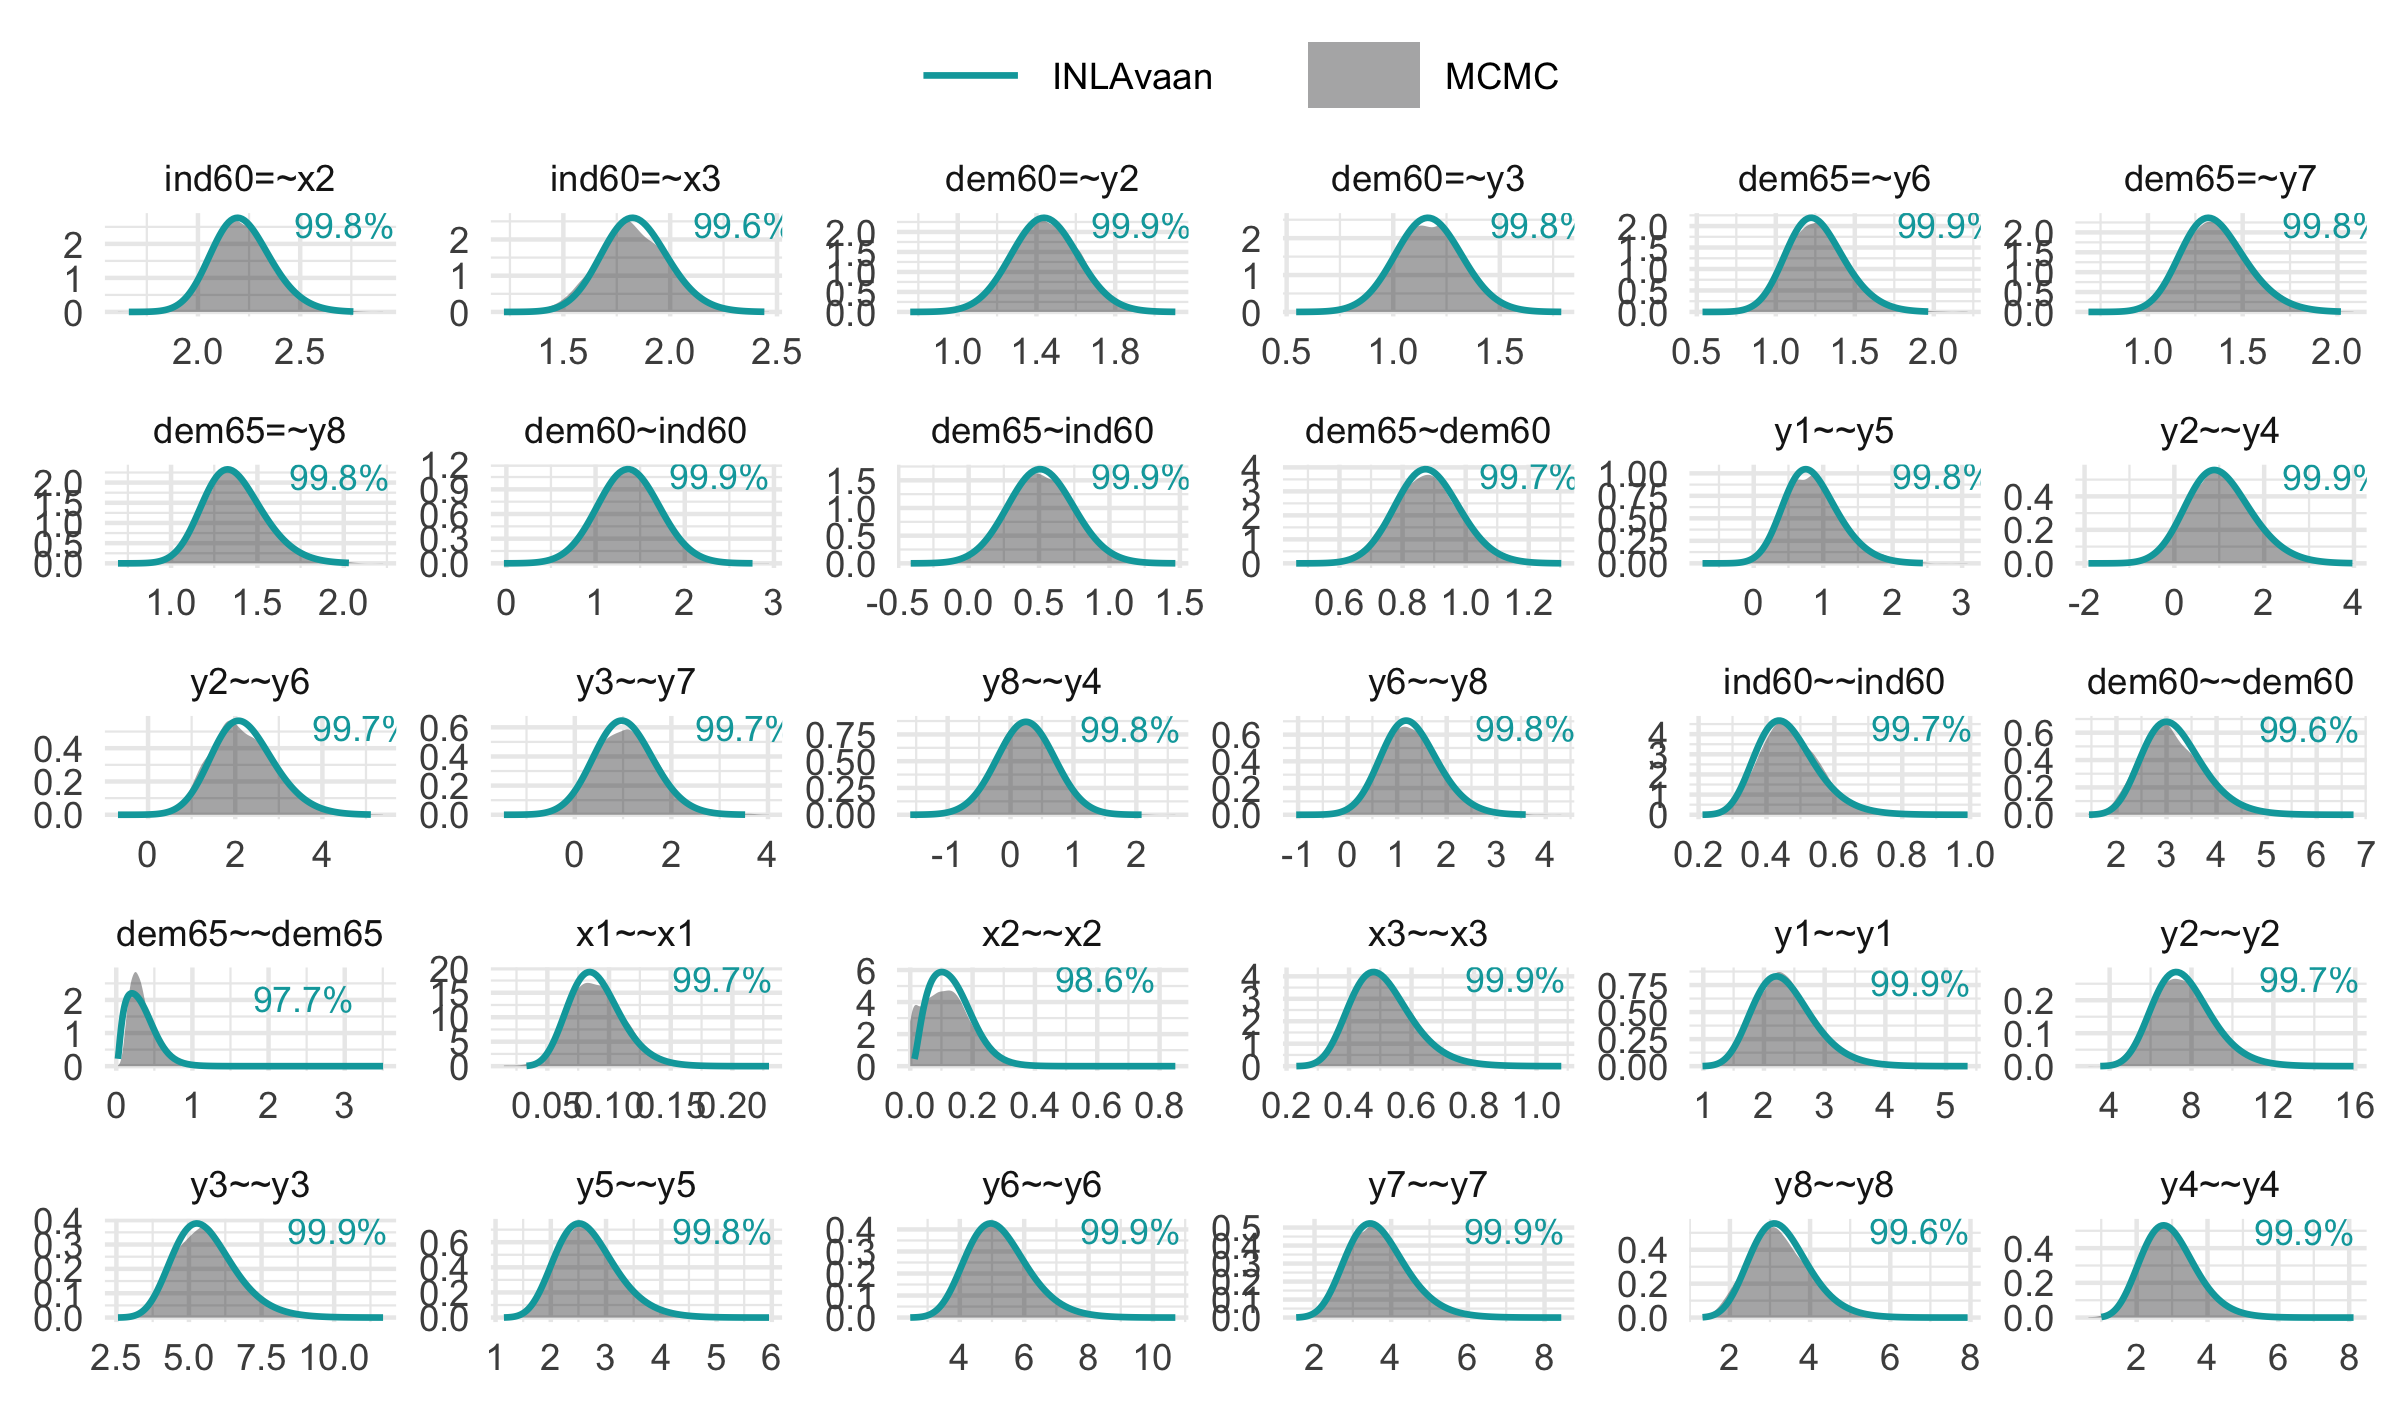
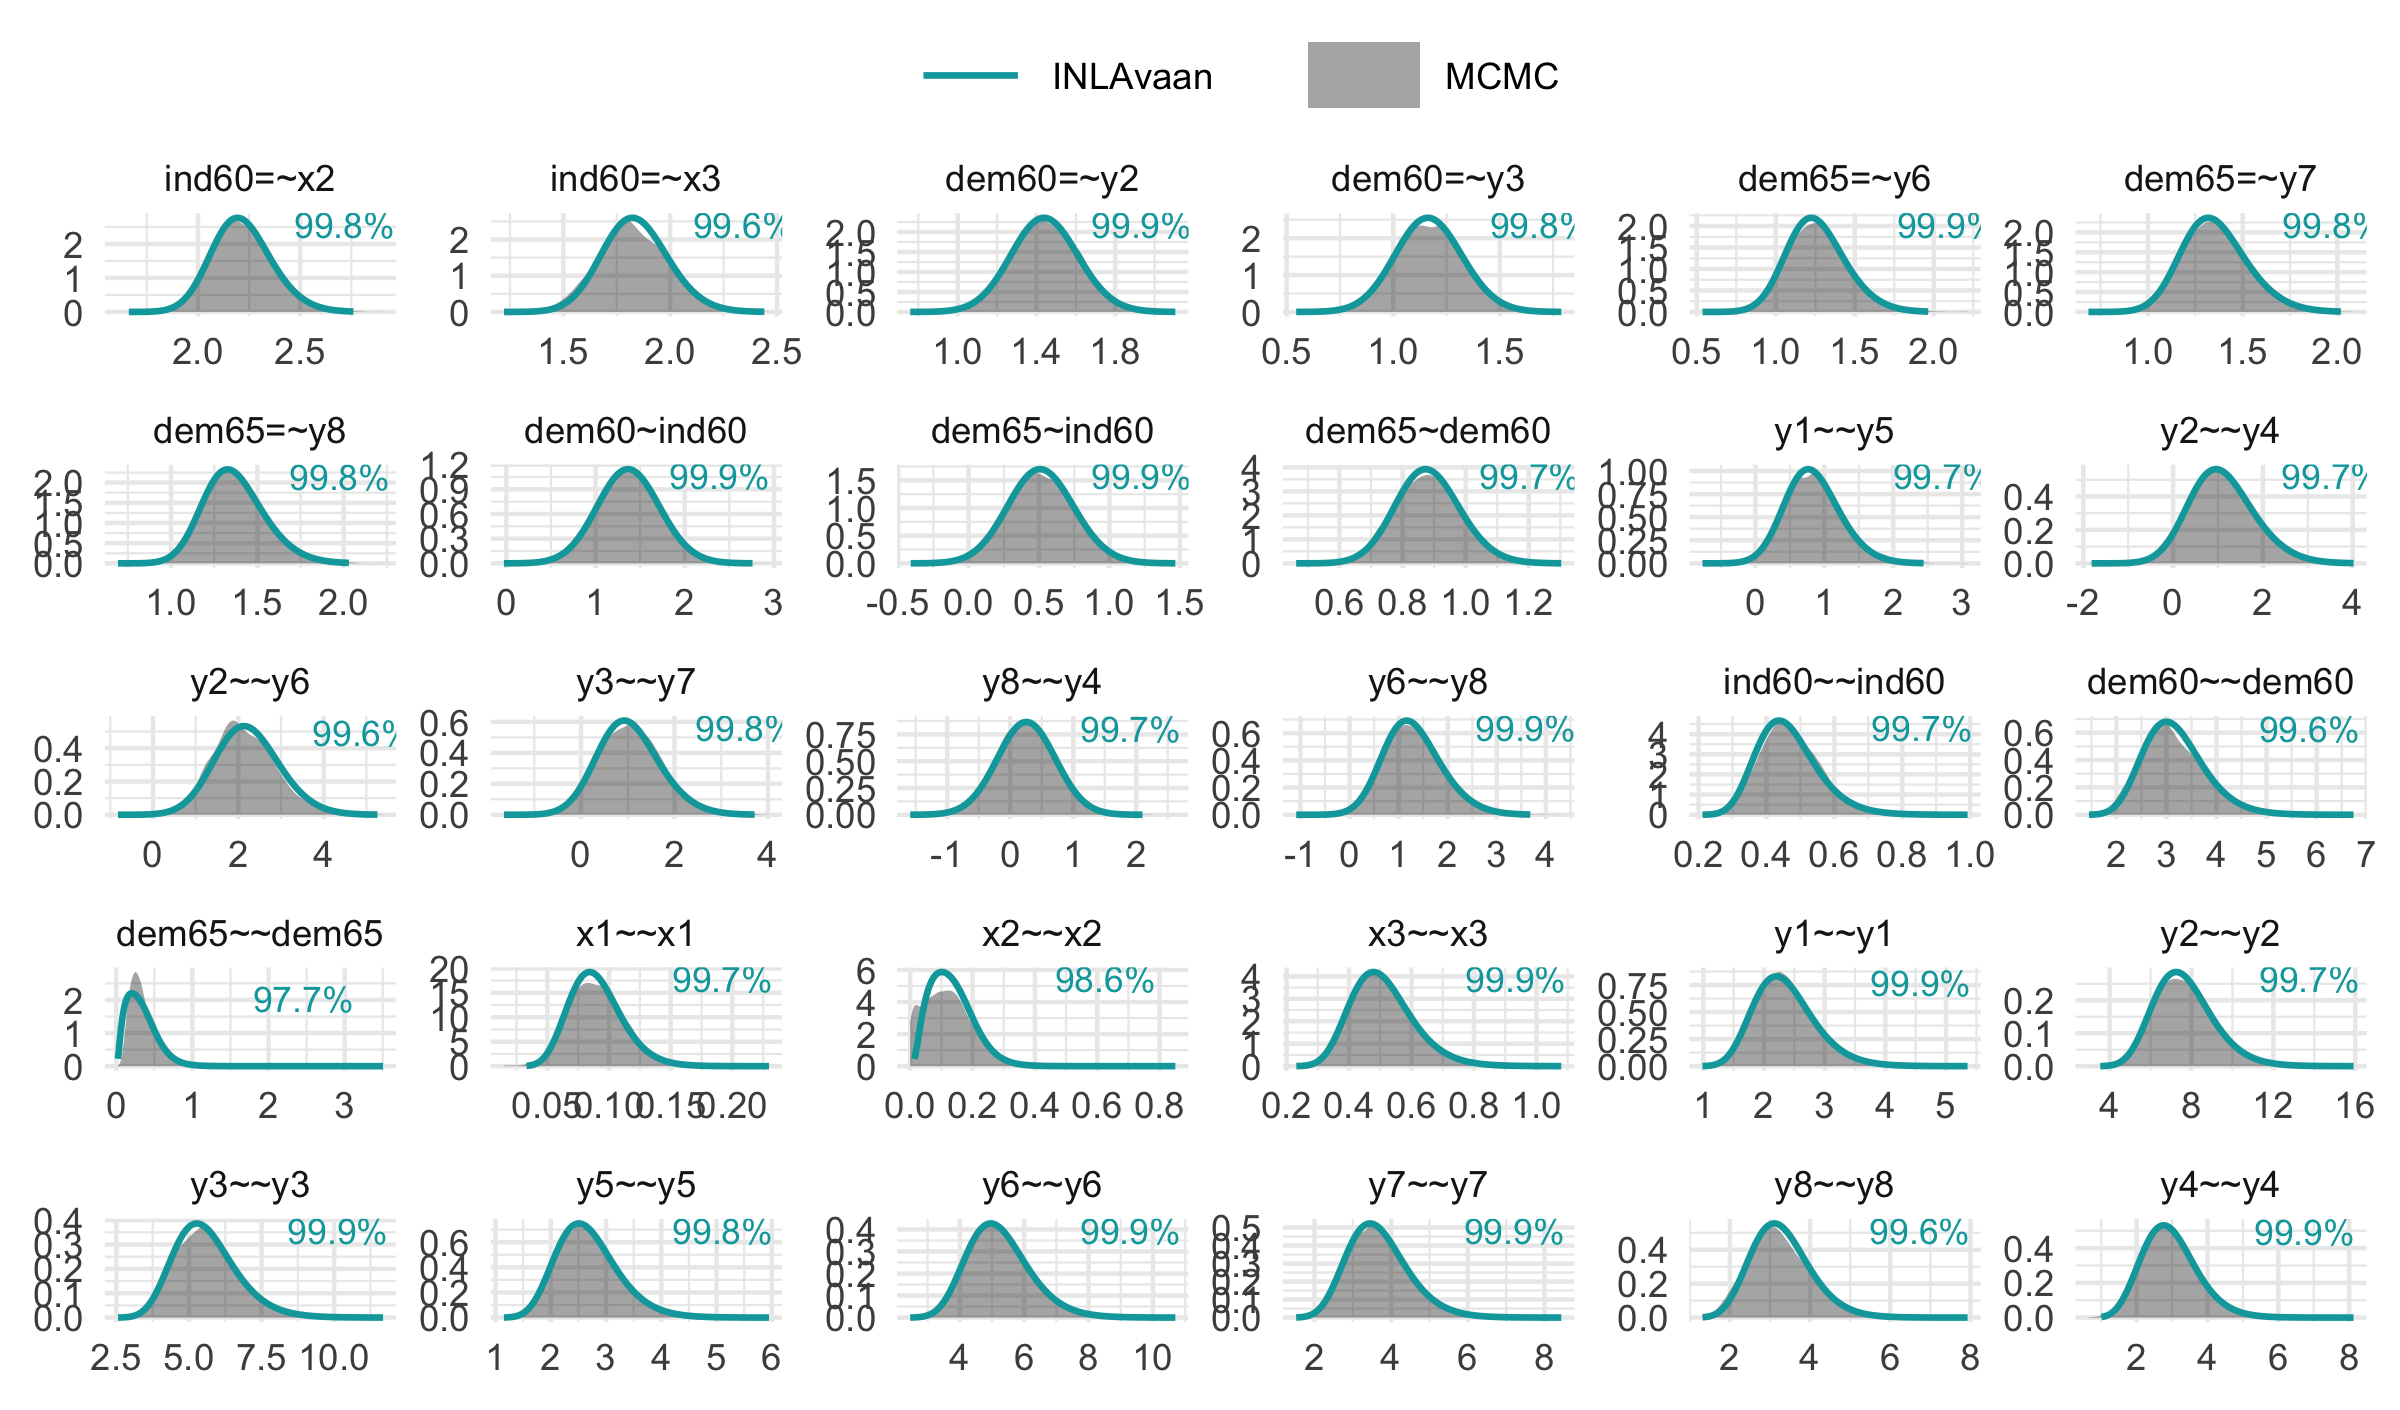
version 0.3.1

diff --git a/inst/doc/mediation.html b/inst/doc/mediation.html
@@ -3408,10 +3408,10 @@ text-decoration: underline; }
 <div class="sourceCode cell-code" id="cb3"><pre class="sourceCode r"><code class="sourceCode r"><span id="cb3-1"><a href="#cb3-1" aria-hidden="true" tabindex="-1"></a><span class="fu">library</span>(INLAvaan)</span>
 <span id="cb3-2"><a href="#cb3-2" aria-hidden="true" tabindex="-1"></a>fit <span class="ot">&lt;-</span> <span class="fu">asem</span>(mod, dat, <span class="at">meanstructure =</span> <span class="cn">TRUE</span>)</span>
 <span id="cb3-3"><a href="#cb3-3" aria-hidden="true" tabindex="-1"></a><span class="co">#&gt; ℹ Mode finding and Hessian computation.</span></span>
-<span id="cb3-4"><a href="#cb3-4" aria-hidden="true" tabindex="-1"></a><span class="co">#&gt; ✔ Posterior mode and Hessian. [29ms]</span></span>
+<span id="cb3-4"><a href="#cb3-4" aria-hidden="true" tabindex="-1"></a><span class="co">#&gt; ✔ Posterior mode and Hessian. [55ms]</span></span>
 <span id="cb3-5"><a href="#cb3-5" aria-hidden="true" tabindex="-1"></a><span class="co">#&gt; </span></span>
 <span id="cb3-6"><a href="#cb3-6" aria-hidden="true" tabindex="-1"></a><span class="co">#&gt; ℹ Performing VB correction.</span></span>
-<span id="cb3-7"><a href="#cb3-7" aria-hidden="true" tabindex="-1"></a><span class="co">#&gt; ✔ VB correction; mean |δ| = 0.099σ. [72ms]</span></span>
+<span id="cb3-7"><a href="#cb3-7" aria-hidden="true" tabindex="-1"></a><span class="co">#&gt; ✔ VB correction; mean |δ| = 0.099σ. [41ms]</span></span>
 <span id="cb3-8"><a href="#cb3-8" aria-hidden="true" tabindex="-1"></a><span class="co">#&gt; </span></span>
 <span id="cb3-9"><a href="#cb3-9" aria-hidden="true" tabindex="-1"></a><span class="co">#&gt; ⠙ Fitting 0/7 skew-normal marginals.</span></span>
 <span id="cb3-10"><a href="#cb3-10" aria-hidden="true" tabindex="-1"></a><span class="co">#&gt; ✔ Fit 7/7 skew-normal marginals. [53ms]</span></span>
@@ -3420,7 +3420,7 @@ text-decoration: underline; }
 <span id="cb3-13"><a href="#cb3-13" aria-hidden="true" tabindex="-1"></a><span class="co">#&gt; ✔ Adjust copula correlations (NORTA). [6ms]</span></span>
 <span id="cb3-14"><a href="#cb3-14" aria-hidden="true" tabindex="-1"></a><span class="co">#&gt; </span></span>
 <span id="cb3-15"><a href="#cb3-15" aria-hidden="true" tabindex="-1"></a><span class="co">#&gt; ⠙ Posterior sampling and summarising.</span></span>
-<span id="cb3-16"><a href="#cb3-16" aria-hidden="true" tabindex="-1"></a><span class="co">#&gt; ✔ Summarise 1000 posterior draws. [335ms]</span></span>
+<span id="cb3-16"><a href="#cb3-16" aria-hidden="true" tabindex="-1"></a><span class="co">#&gt; ✔ Summarise 1000 posterior draws. [324ms]</span></span>
 <span id="cb3-17"><a href="#cb3-17" aria-hidden="true" tabindex="-1"></a><span class="co">#&gt; </span></span>
 <span id="cb3-18"><a href="#cb3-18" aria-hidden="true" tabindex="-1"></a><span class="co">#&gt; ℹ Fit measures: PPP, DIC, LOO, WAIC.</span></span></code></pre></div>
 </div>
@@ -3429,7 +3429,7 @@ text-decoration: underline; }
 <p>The summary output provides the posterior mean, standard deviation, and 95% credible intervals for all paths.</p>
 <div class="cell">
 <div class="sourceCode cell-code" id="cb4"><pre class="sourceCode r"><code class="sourceCode r"><span id="cb4-1"><a href="#cb4-1" aria-hidden="true" tabindex="-1"></a><span class="fu">summary</span>(fit)</span>
-<span id="cb4-2"><a href="#cb4-2" aria-hidden="true" tabindex="-1"></a><span class="co">#&gt; INLAvaan 0.3.0 ended normally after 5 iterations</span></span>
+<span id="cb4-2"><a href="#cb4-2" aria-hidden="true" tabindex="-1"></a><span class="co">#&gt; INLAvaan 0.3.1 ended normally after 5 iterations</span></span>
 <span id="cb4-3"><a href="#cb4-3" aria-hidden="true" tabindex="-1"></a><span class="co">#&gt; </span></span>
 <span id="cb4-4"><a href="#cb4-4" aria-hidden="true" tabindex="-1"></a><span class="co">#&gt;   Estimator                                      BAYES</span></span>
 <span id="cb4-5"><a href="#cb4-5" aria-hidden="true" tabindex="-1"></a><span class="co">#&gt;   Optimization method                           NLMINB</span></span>

diff --git a/README.md b/README.md
@@ -14,9 +14,9 @@ coverage](https://codecov.io/gh/haziqj/INLAvaan/branch/main/graph/badge.svg)](ht
 [![Dependencies](https://tinyverse.netlify.app/badge/INLAvaan)](https://cran.r-project.org/package=INLAvaan)
 [![CRAN
 Downloads](http://cranlogs.r-pkg.org/badges/grand-total/INLAvaan)](https://cran.r-project.org/package=INLAvaan)
-<!-- [![GitHub Repo stars](https://img.shields.io/github/stars/haziqj/inlavaan)](https://github.com/haziqj/INLAvaan/stargazers) -->
 ![GitHub Repo
 stars](https://img.shields.io/github/stars/haziqj/inlavaan)
+<!-- [![GitHub Repo stars](https://img.shields.io/github/stars/haziqj/inlavaan)](https://github.com/haziqj/INLAvaan/stargazers) -->
 <!-- badges: end -->
 
 > Efficient approximate Bayesian inference for Structural Equation
@@ -74,24 +74,25 @@ utils::data("PoliticalDemocracy", package = "lavaan")
 
 fit <- asem(model = mod_poldem, data = PoliticalDemocracy)
 #> ℹ Mode finding and Hessian computation.
-#> ✔ Posterior mode and Hessian. [95ms]
+#> ✔ Posterior mode and Hessian. [90ms]
 #> 
 #> ℹ Performing VB correction.
-#> ✔ VB correction; mean |δ| = 0.157σ. [105ms]
+#> ✔ VB correction; mean |δ| = 0.157σ. [103ms]
 #> 
 #> ⠙ Fitting 0/30 skew-normal marginals.
-#> ✔ Fit 30/30 skew-normal marginals. [895ms]
+#> ✔ Fit 30/30 skew-normal marginals. [951ms]
 #> 
 #> ℹ Adjusting copula correlations (NORTA).
-#> ✔ Adjust copula correlations (NORTA). [110ms]
+#> ✔ Adjust copula correlations (NORTA). [100ms]
 #> 
 #> ⠙ Posterior sampling and summarising.
-#> ✔ Summarise 1000 posterior draws. [531ms]
+#> ⠹ Computing fit indices (PPP/DIC).
+#> ✔ Summarise 1000 posterior draws. [503ms]
 #> 
 #> ℹ Fit measures: PPP, DIC, LOO, WAIC.
 
 summary(fit)
-#> INLAvaan 0.3.0 ended normally after 71 iterations
+#> INLAvaan 0.3.1 ended normally after 71 iterations
 #> 
 #>   Estimator                                      BAYES
 #>   Optimization method                           NLMINB
@@ -102,12 +103,12 @@ summary(fit)
 #> Model Test (User Model):
 #> 
 #>    Marginal log-likelihood                   -1659.573 
-#>    PPP (Chi-square)                              0.457 
+#>    PPP (Chi-square)                              0.464 
 #> 
 #> Information Criteria:
 #> 
-#>    Deviance (DIC)                             3174.452 
-#>    Effective parameters (pD)                    29.254 
+#>    Deviance (DIC)                             3175.519 
+#>    Effective parameters (pD)                    29.787 
 #> 
 #> Parameter Estimates:
 #> 
@@ -143,16 +144,16 @@ summary(fit)
 #> Covariances:
 #>                    Estimate       SD     2.5%    97.5%     NMAD    Prior       
 #>  .y1 ~~                                                                        
-#>    .y5                0.849    0.397    0.158    1.712    0.005       beta(1,1)
+#>    .y5                0.836    0.401    0.111    1.687    0.005       beta(1,1)
 #>  .y2 ~~                                                                        
-#>    .y4                1.026    0.735   -0.295    2.591    0.004       beta(1,1)
-#>    .y6                2.211    0.725    0.907    3.754    0.011       beta(1,1)
+#>    .y4                1.102    0.729   -0.201    2.662    0.004       beta(1,1)
+#>    .y6                2.221    0.760    0.809    3.795    0.011       beta(1,1)
 #>  .y3 ~~                                                                        
-#>    .y7                1.029    0.624   -0.142    2.311    0.005       beta(1,1)
+#>    .y7                1.032    0.670   -0.186    2.447    0.005       beta(1,1)
 #>  .y8 ~~                                                                        
-#>    .y4                0.245    0.460   -0.656    1.146    0.003       beta(1,1)
+#>    .y4                0.256    0.461   -0.646    1.159    0.003       beta(1,1)
 #>  .y6 ~~                                                                        
-#>    .y8                1.278    0.579    0.228    2.503    0.005       beta(1,1)
+#>    .y8                1.297    0.596    0.244    2.583    0.005       beta(1,1)
 #> 
 #> Variances:
 #>                    Estimate       SD     2.5%    97.5%     NMAD    Prior       

diff --git a/NEWS.md b/NEWS.md
@@ -1,3 +1,10 @@
+# INLAvaan 0.3.1
+
+## Bug fixes
+
+* The `timing()` function did not return the correct total time due to a breaking name change in lavaan.
+* Fixed CRAN errors and notes on certain linux builds relating to .Rd usage and convergence checks.
+
 # INLAvaan 0.3.0
 
 ## New features